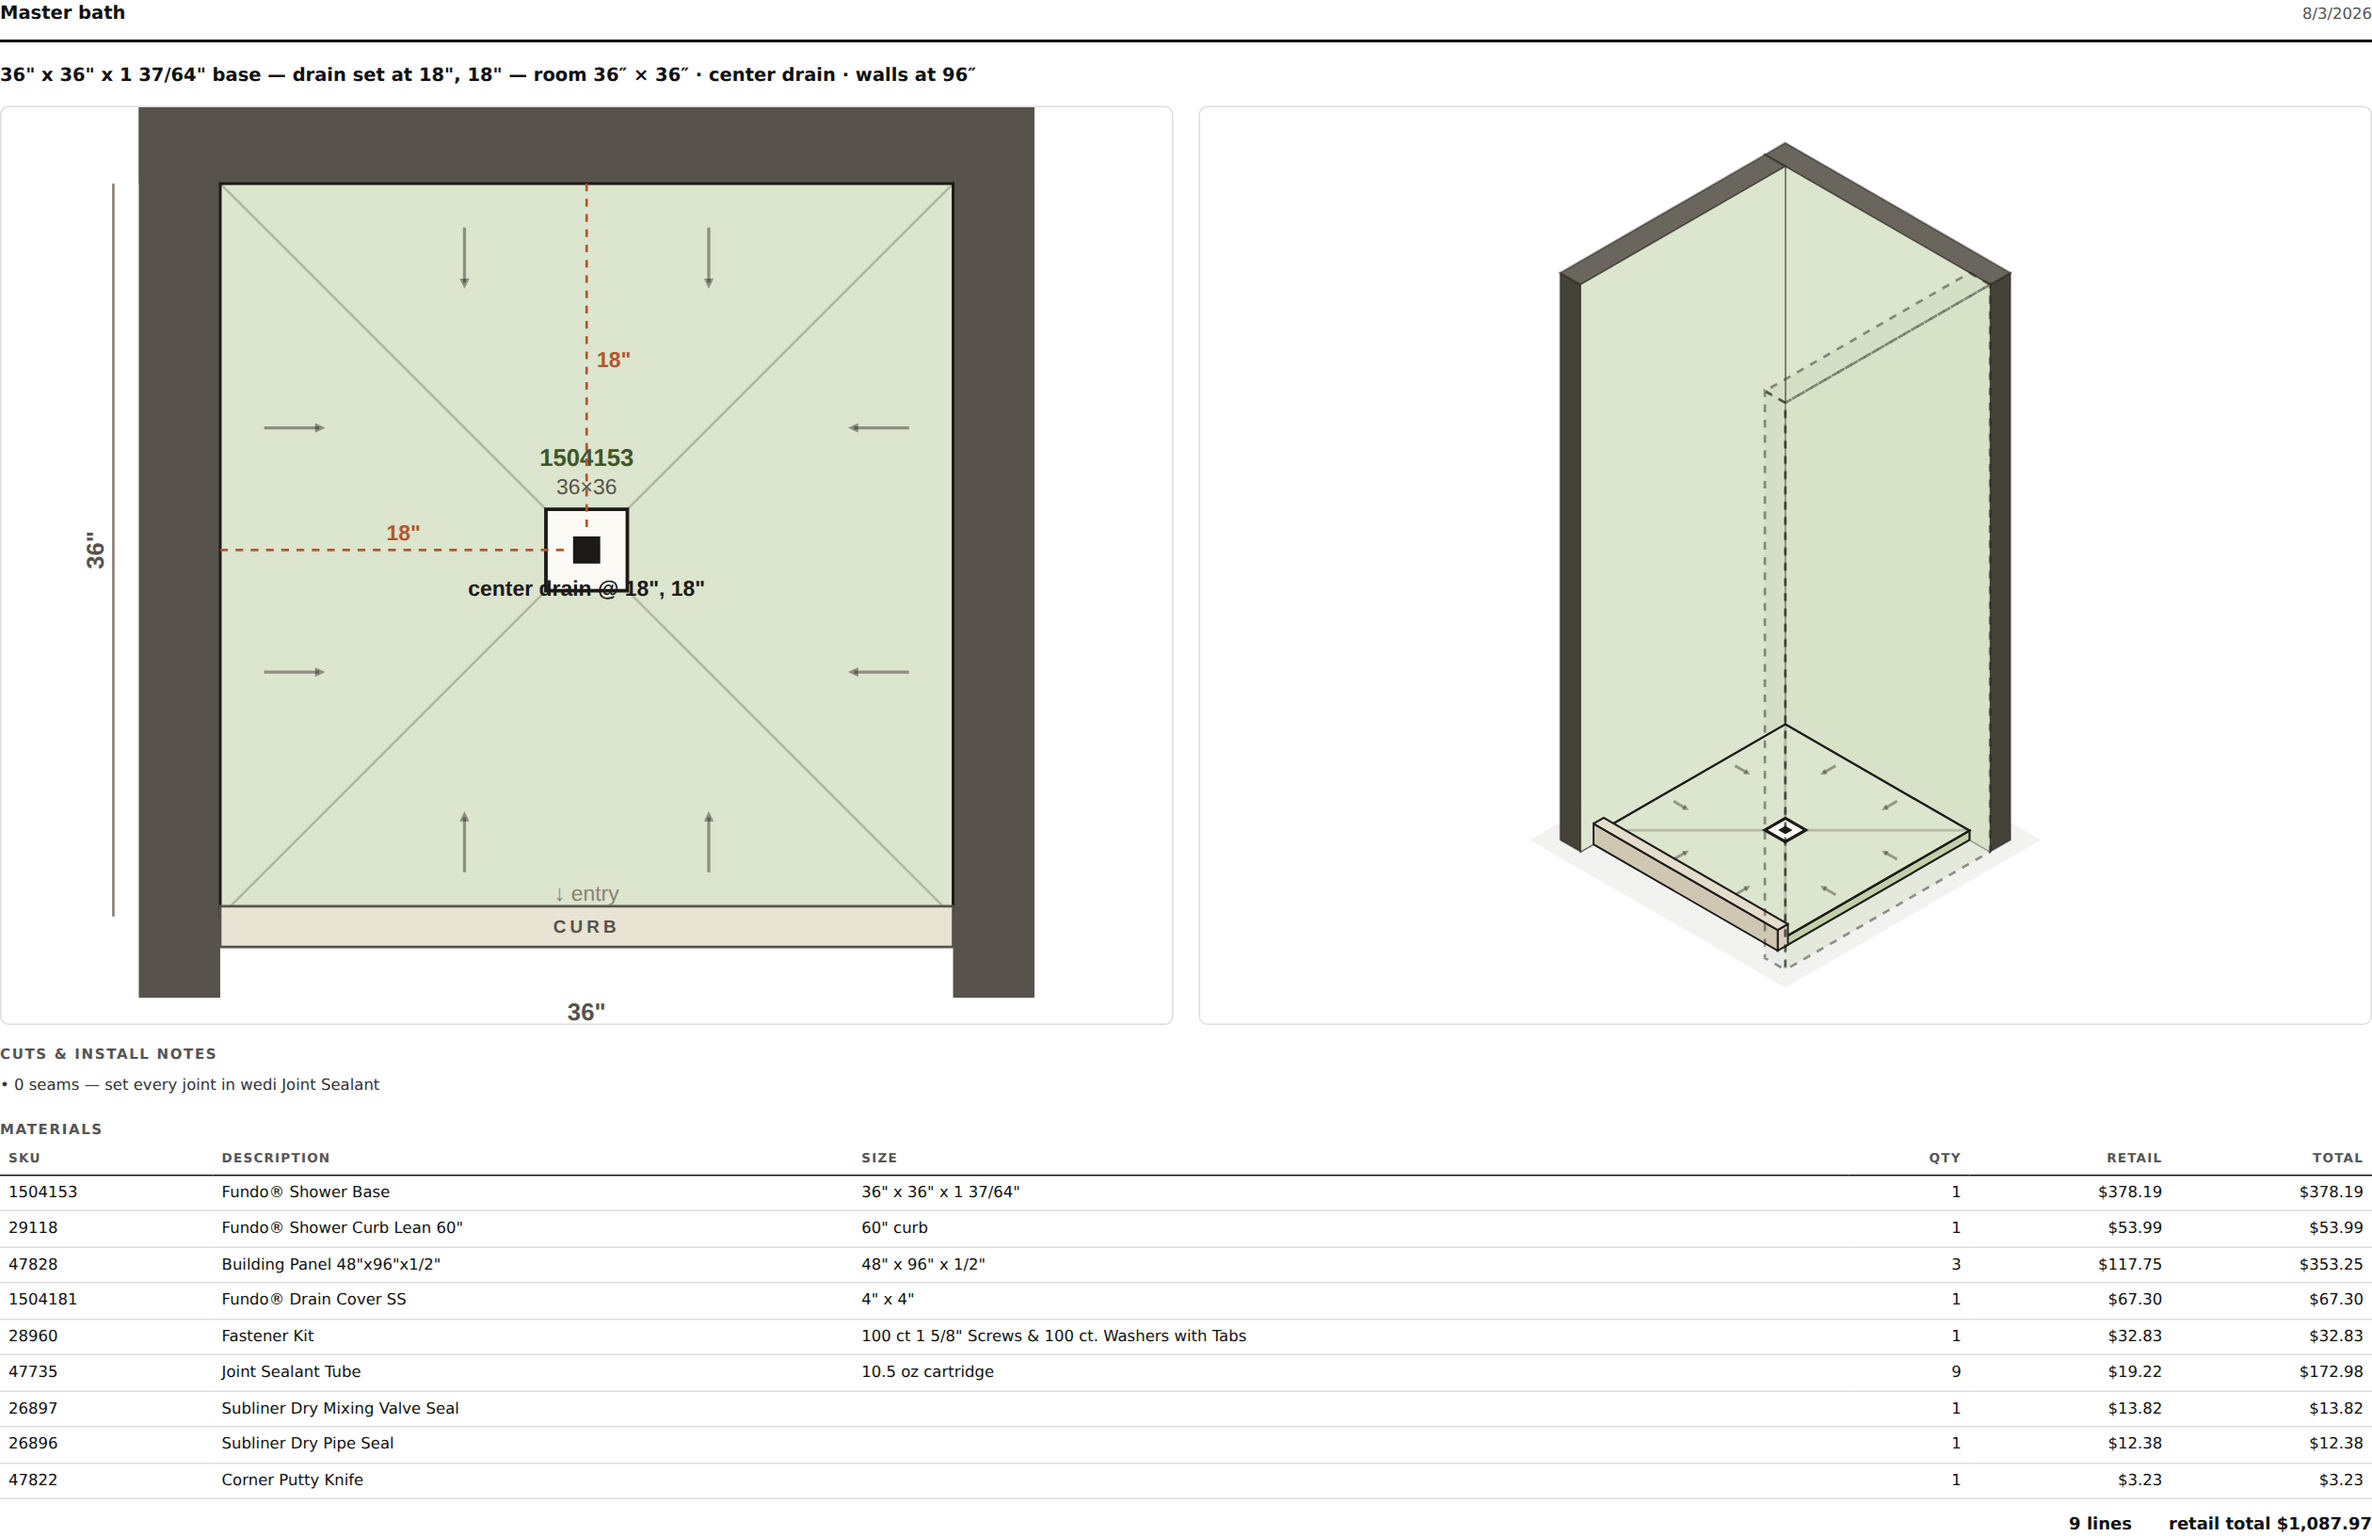
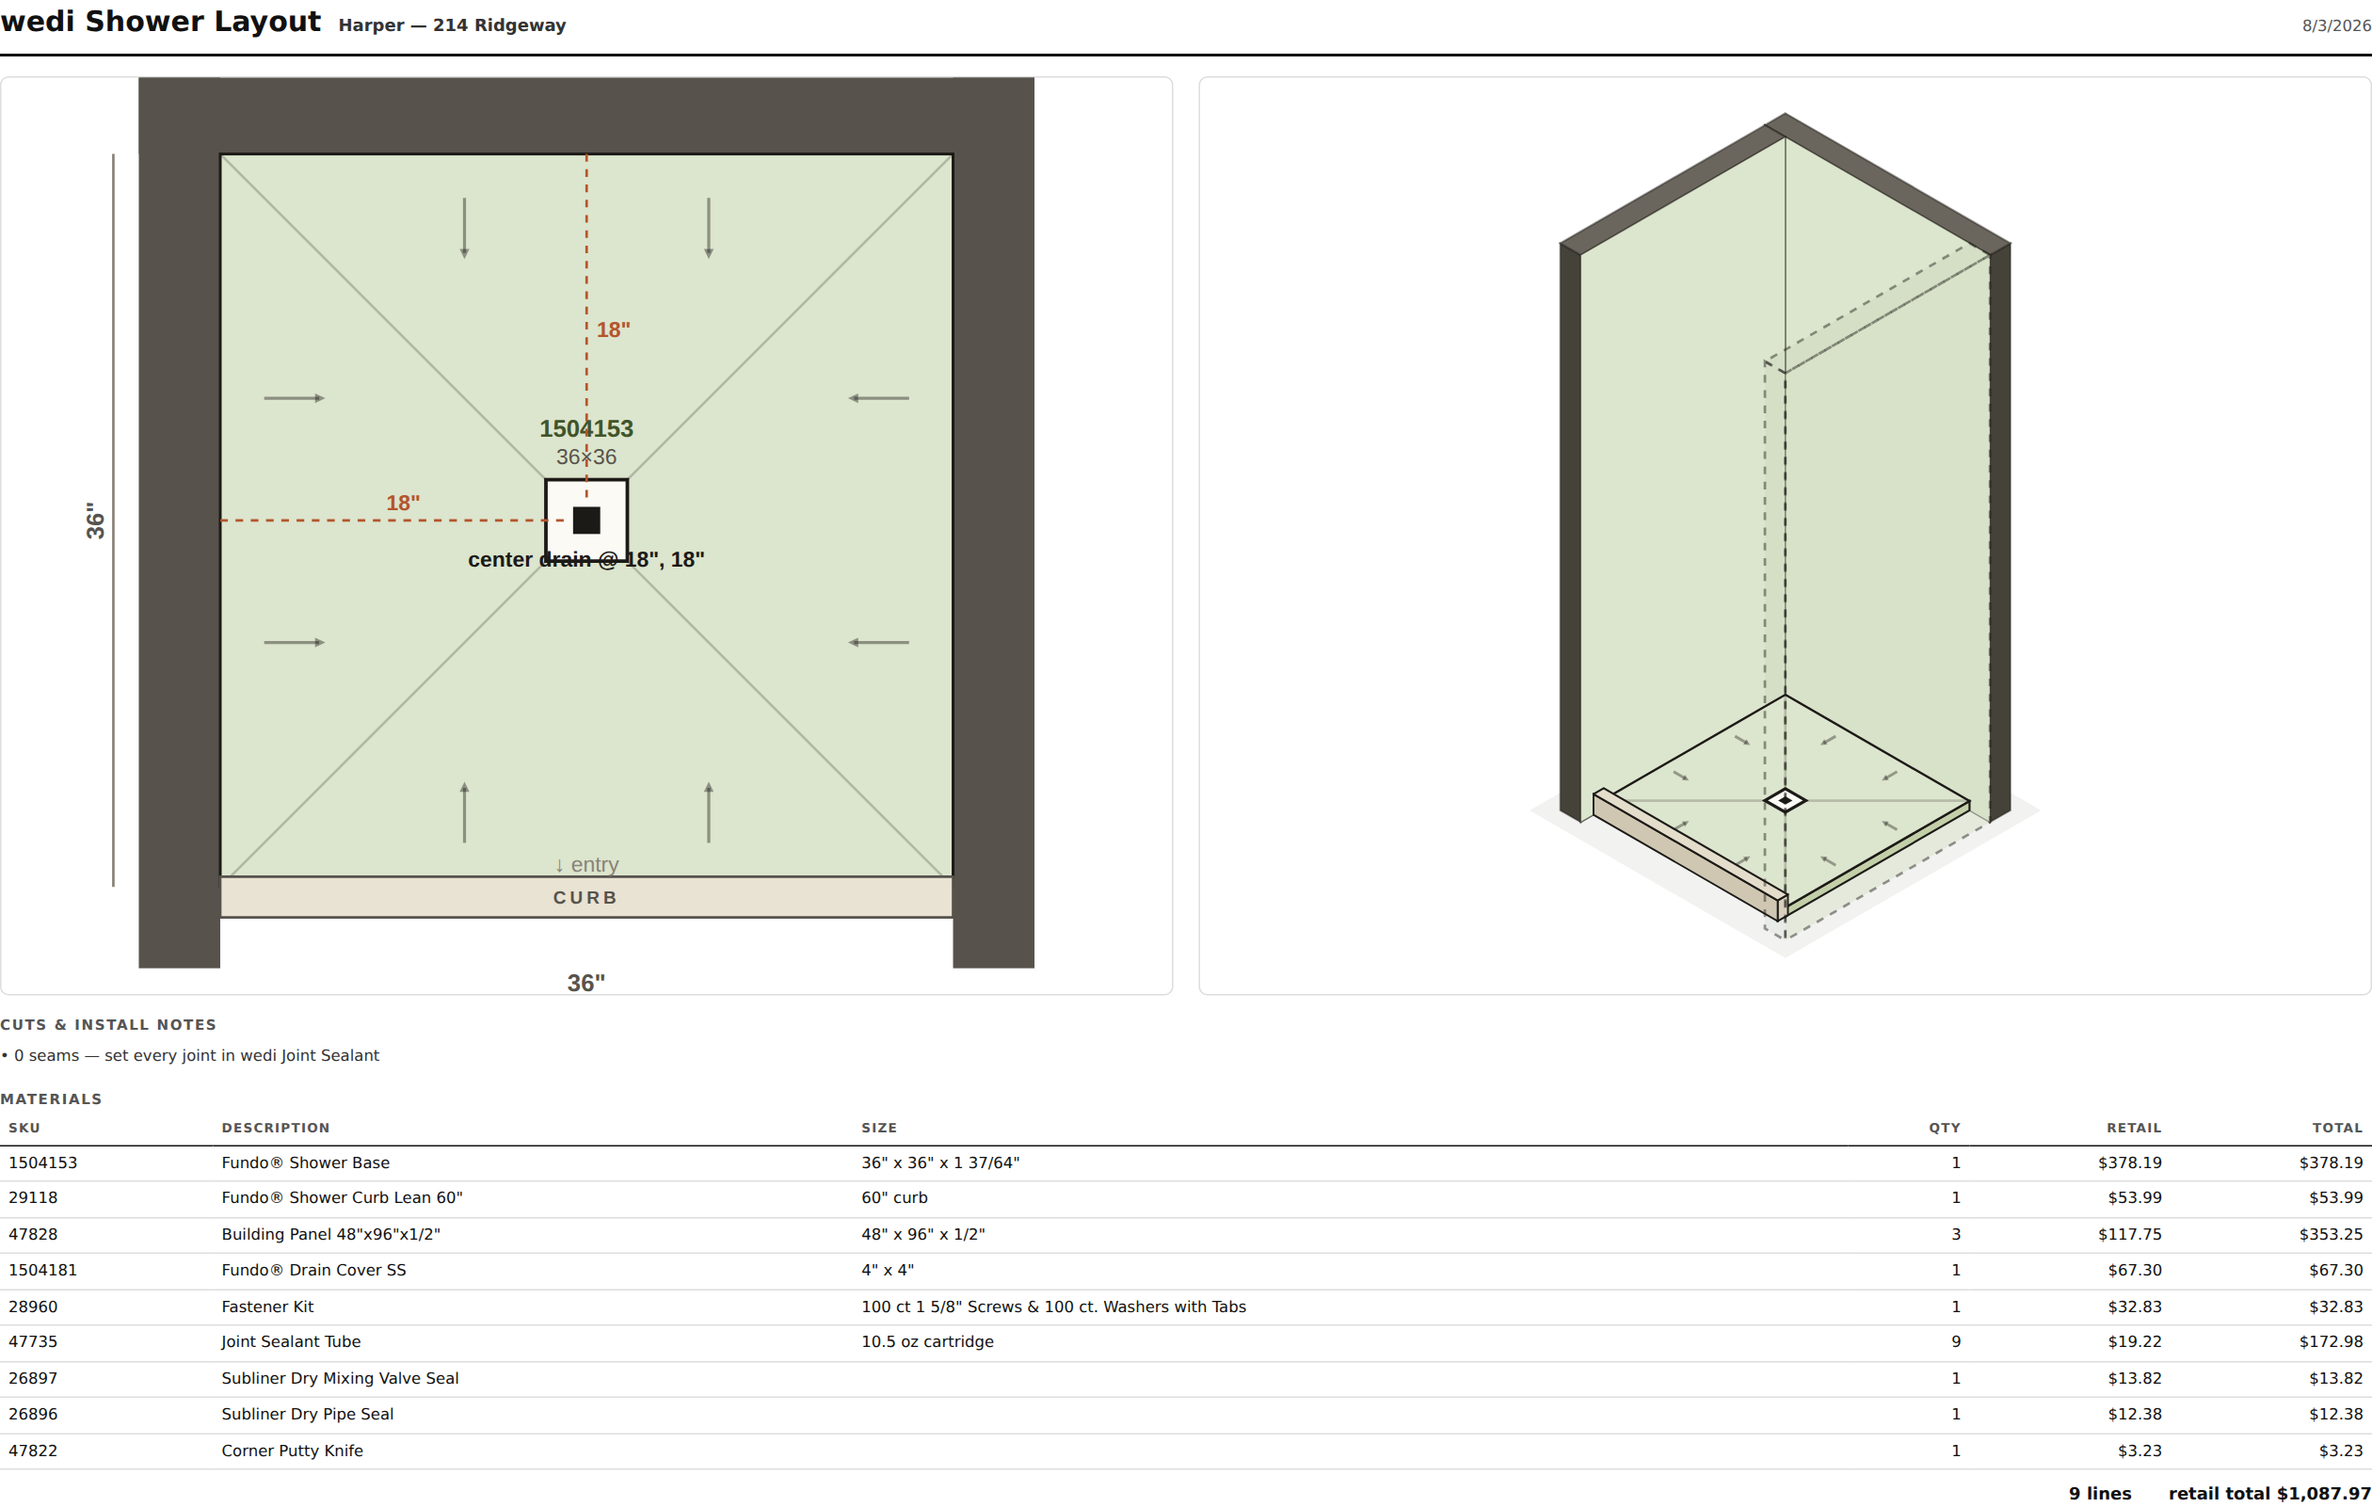
wedi print: title + project in the head, drop the room line
Owner's second pass. The head reads "wedi Shower Layout" again with the
PROJECT name beside it — a new projectName prop (sel.name from the job
sheet, the hub's open project otherwise; blank on a new quick price, and
the sub then doesn't render) — and the date.

The room/drain/walls line under it is gone: the drawings dimension the
room themselves.

Claude-Session: https://claude.ai/code/session_01SJ1xax4wpdBtrz8CvKzo4u

diff --git a/src/WediConfigurator.jsx b/src/WediConfigurator.jsx
@@ -349,9 +349,9 @@ const PRINT_CSS = `
   body > *:not(.wedi-printsheet){display:none !important}
   .wedi-printsheet{display:block;color:#111;background:#fff;font-family:var(--ft-ui)}
   .wedi-printsheet .ps-head{display:flex;align-items:baseline;gap:12px;border-bottom:2px solid #111;padding-bottom:8px;margin-bottom:14px}
-  .wedi-printsheet .ps-head .sub{font-size:13px;color:#111;font-weight:800}
+  .wedi-printsheet .ps-head .t{font-size:20px;font-weight:800}
+  .wedi-printsheet .ps-head .sub{font-size:12px;color:#333;font-weight:700}
   .wedi-printsheet .ps-head .dt{margin-left:auto;font-size:11px;color:#555}
-  .wedi-printsheet .ps-room{font-size:13px;font-weight:700;margin-bottom:12px}
   .wedi-printsheet .ps-diags{display:flex;gap:18px;align-items:flex-start;margin-bottom:6px}
   .wedi-printsheet .ps-diags .d{flex:1}
   .wedi-printsheet .ps-diags svg{width:100%;height:auto;border:1px solid #ddd;border-radius:6px;background:#fff}
@@ -1471,7 +1471,7 @@ function seedState(seed) {
   return s;
 }
 
-export default function WediConfigurator({ seed, tier, onTierChange, wediBuilderPct, onAdd, onClose, areaName, onConfigChange, embedded = false }) {
+export default function WediConfigurator({ seed, tier, onTierChange, wediBuilderPct, onAdd, onClose, areaName, projectName, onConfigChange, embedded = false }) {
   const init = useRef(null);
   if (!init.current) init.current = seedState(seed);
   const s0 = init.current;
@@ -3063,12 +3063,9 @@ export default function WediConfigurator({ seed, tier, onTierChange, wediBuilder
     <div className="wedi-printsheet">
       <style>{PRINT_CSS}</style>
       <div className="ps-head">
-        <div className="sub">{areaName || ""}</div>
+        <div className="t">wedi Shower Layout</div>
+        {projectName ? <div className="sub">{projectName}</div> : null}
         <div className="dt">{new Date().toLocaleDateString()}</div>
-      </div>
-      <div className="ps-room">
-        {diag.title || (option ? option.title : "")} — room {inch(diag.room.w)}″ × {inch(diag.room.d)}″
-        {build.pan && build.pan.drain ? " · " + build.pan.drain.type + " drain" : ""} · walls at {inch(wallH)}″
       </div>
       <div className="ps-diags">
         <div className="d">

diff --git a/src/App.jsx b/src/App.jsx
@@ -2417,6 +2417,7 @@ export default function App({ user, onSignOut }) {
             tier={{ tier: sel.priceTier || "retail", customPct: sel.customPct, builderPct: normPricing(settings.pricing).builderPct, salePct: normPricing(settings.pricing).salePct }}
             onTierChange={(patch) => updateProject(sel.id, patch)}
             areaName={sel.categories.find((x) => x.id === wediPop.aid)?.name || "this area"}
+            projectName={sel.name || ""}
             onAdd={(lines) => { addWediLines(wediPop.aid, wediPop.pid, lines); setWediPop(null); setFocusQty(wediPop.pid); }}
             onConfigChange={(live) => { try { localStorage.setItem("ft-open-layer", JSON.stringify({ kind: "wedi", aid: wediPop.aid, pid: wediPop.pid, seed: live })); } catch (x) { } }}
             onClose={() => setWediPop(null)} />

diff --git a/src/AppsWorkspace.jsx b/src/AppsWorkspace.jsx
@@ -477,6 +477,7 @@ export function AppsWorkspace({ onClose, stock, labels, presets, onAddLabel, onA
                 embedded
                 wediBuilderPct={wedi.builderPct}
                 areaName={wedi.currentName || "a new quick price"}
+                projectName={wedi.currentName || ""}
                 onAdd={(lines) => requestCommit(wedi, lines, null)}
                 onClose={() => { if (!pendingRef.current) setApp("labels"); }}
               />

diff --git a/src/wedipreview.jsx b/src/wedipreview.jsx
@@ -11,6 +11,7 @@ createRoot(document.getElementById("preview")).render(
     seed={null}
     wediBuilderPct={18}
     areaName="Master bath"
+    projectName="Harper — 214 Ridgeway"
     onAdd={(rows) => console.log("onAdd", rows)}
     onClose={() => console.log("onClose")}
     onConfigChange={() => {}}

diff --git a/.scratch/077_wedi-label-strip/ticket.md b/.scratch/077_wedi-label-strip/ticket.md
@@ -28,12 +28,17 @@ and the print sheet carries a title banner and a boilerplate footer.
 3. **Add-wall toast** — "Click an edge on the **top-down** drawing" → "on the
    drawing". The hint chip already sits directly over the drawing that takes
    the click.
-4. **Print head** — dropped the `wedi shower layout` title and the `FloorTrack`
-   sub. The sheet now heads with the area name (bumped to the title's weight)
-   and the date over the rule. The room/drain/walls line under it is unchanged
-   — that's job data, not chrome.
-5. **Print diagram labels** — the same two `dh` captions gone, with their CSS.
-6. **Print footer** — dropped the `ps-note` paragraph (joint sealant, fastener
+4. **Print head** — dropped the `FloorTrack` sub. The sheet heads with
+   `wedi Shower Layout`, the PROJECT name beside it when there is one, and the
+   date (owner, second pass — the first cut removed the title too, which read
+   as too bare). `projectName` is a new prop: `sel.name` from App.jsx, the
+   hub's open project from AppsWorkspace (blank on a new quick price, and the
+   sub then doesn't render).
+5. **Print room line** — dropped the `ps-room` line under the head
+   (`<pan> — room 36″ × 36″ · center drain · walls at 96″`) and its CSS. The
+   drawings dimension the room themselves.
+6. **Print diagram labels** — the same two `dh` captions gone, with their CSS.
+7. **Print footer** — dropped the `ps-note` paragraph (joint sealant, fastener
    spacing, pre-sloped extension trim, "prices are the Jan 1 2026 book") and
    its CSS. Install instructions belong on wedi's own literature; the sheet's
    own **Cuts & install notes** section still prints whatever is specific to
@@ -48,6 +53,6 @@ and the print sheet carries a title banner and a boilerplate footer.
 |---|---|
 | `after-2-rail.png` | both drawings, no headers, spacing held |
 | `after-3-rail-custom.png` | same over a solved custom shower |
-| `after-4-print.png` | head is `Master bath` + date; no diagram captions; ends on the totals row |
+| `after-4-print.png` | head is `wedi Shower Layout` + project + date, no room line; no diagram captions; ends on the totals row |
 
 `npm test` — 889 pass.
